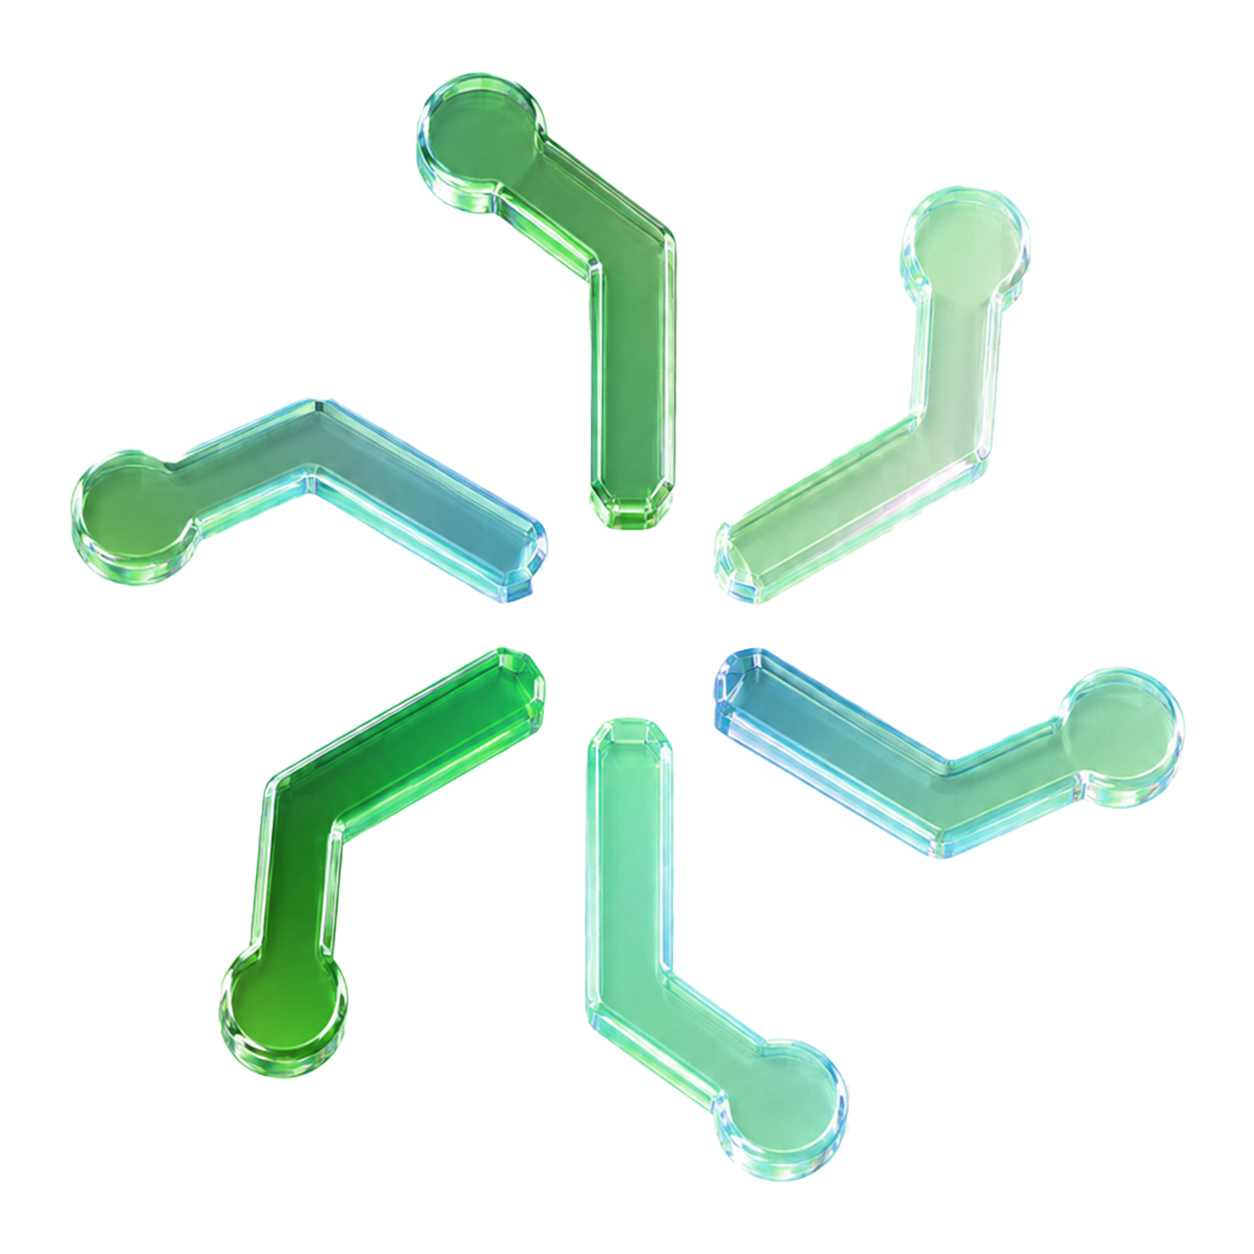
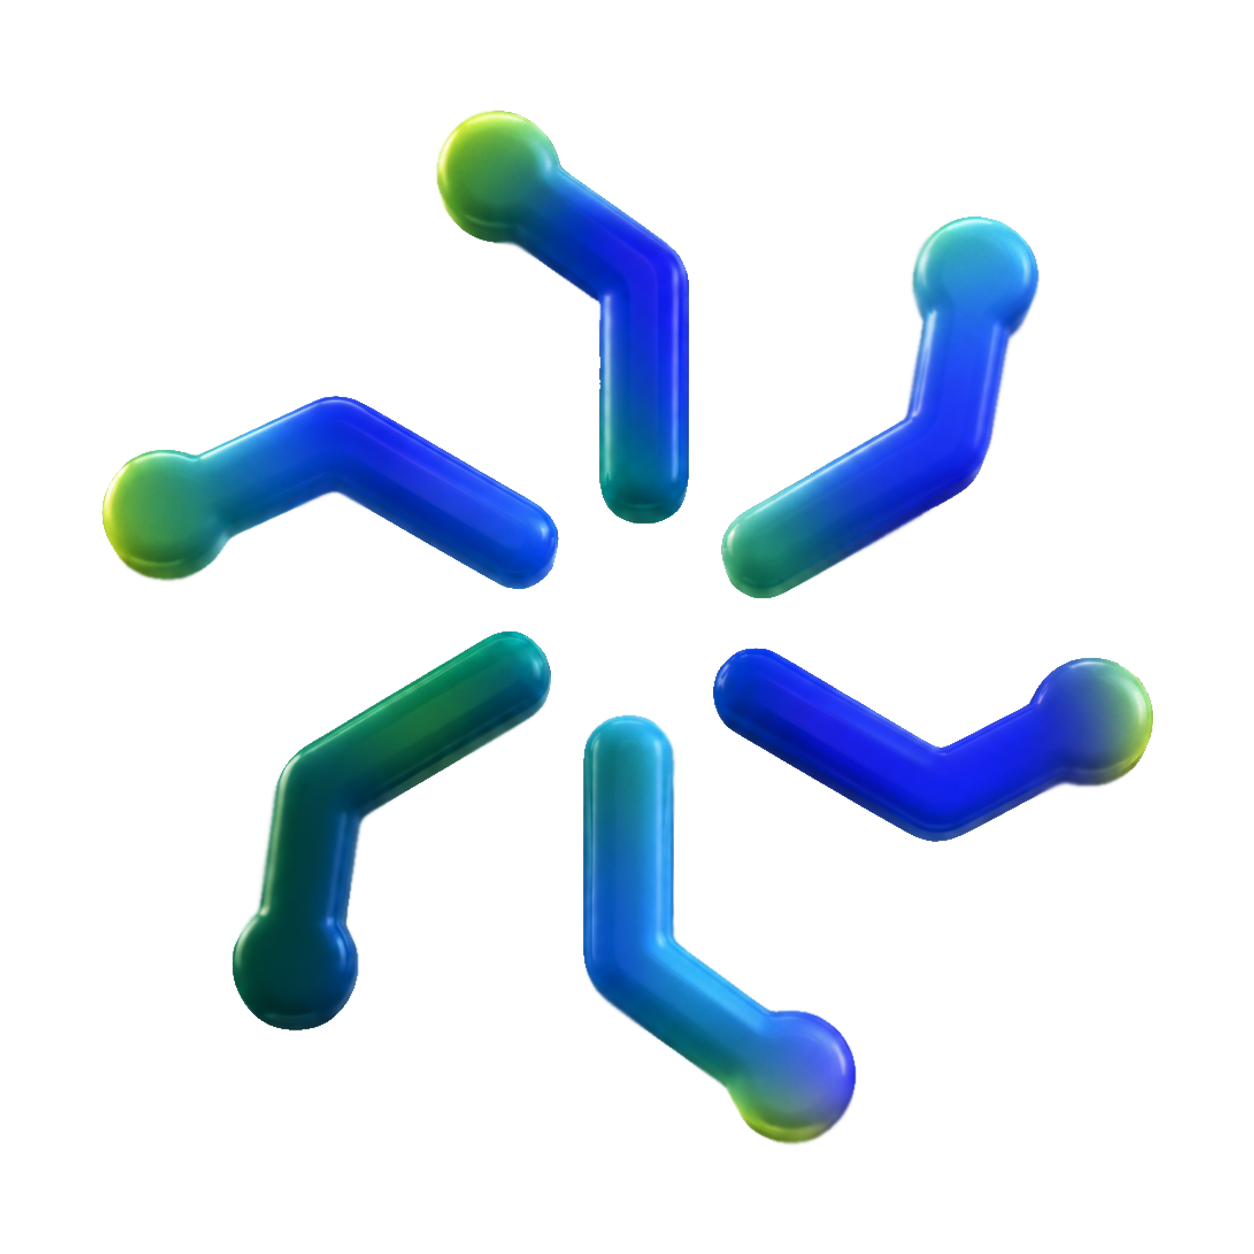
Swap hero + Computers illustrations to new green renders; downsize Computers bleed
- hero: new green/blue pinwheel shape
- Computers & Mini PCs: new deep-green render, slightly smaller bleed

Changed region(s): [[0.0311, 0.0311, 0.5598, 0.8708], [0.5598, 0.1244, 0.9641, 0.6842], [0.4665, 0.5598, 0.6842, 0.9641]]

diff --git a/styles.css b/styles.css
@@ -395,7 +395,7 @@ button { font: inherit; cursor: pointer; }
 /* bleed treatment: transparent product render sits directly on the dark card
    and overflows the right/bottom edge (clipped by the card's rounded box) */
 .fcard__art--bleed { background: none; border: 0; align-self: stretch; min-height: 340px; position: relative; overflow: visible; }
-.fcard__art--bleed img { position: absolute; top: 56%; right: -22%; transform: translateY(-50%); height: 162%; width: auto; max-width: none; object-fit: contain; border-radius: 0; }
+.fcard__art--bleed img { position: absolute; top: 56%; right: -22%; transform: translateY(-50%); height: 150%; width: auto; max-width: none; object-fit: contain; border-radius: 0; }
 
 /* ---- How we work: intro + vertical stepper rail (SynthAI logic) ---- */
 .split { display: grid; grid-template-columns: 1fr 1fr; gap: clamp(32px, 5vw, 72px); align-items: start; }